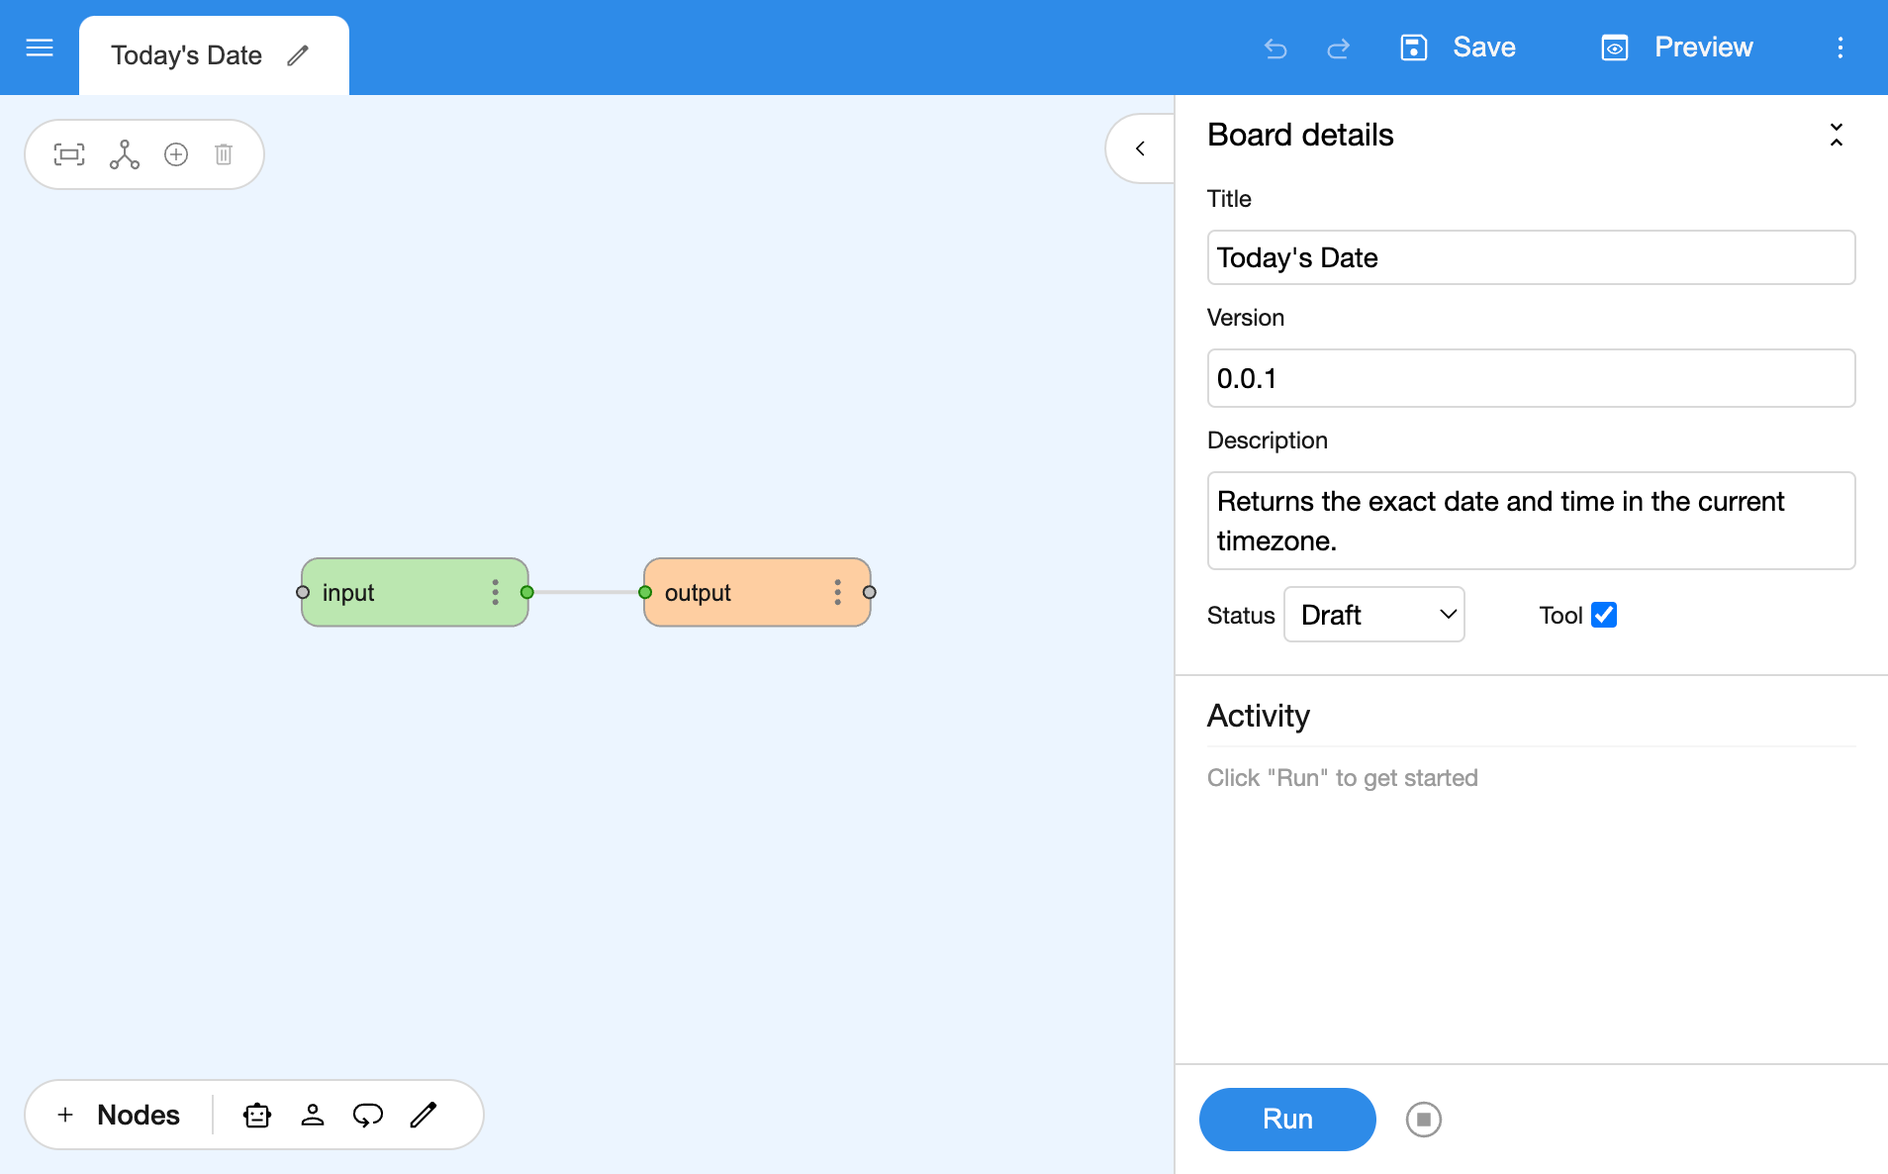
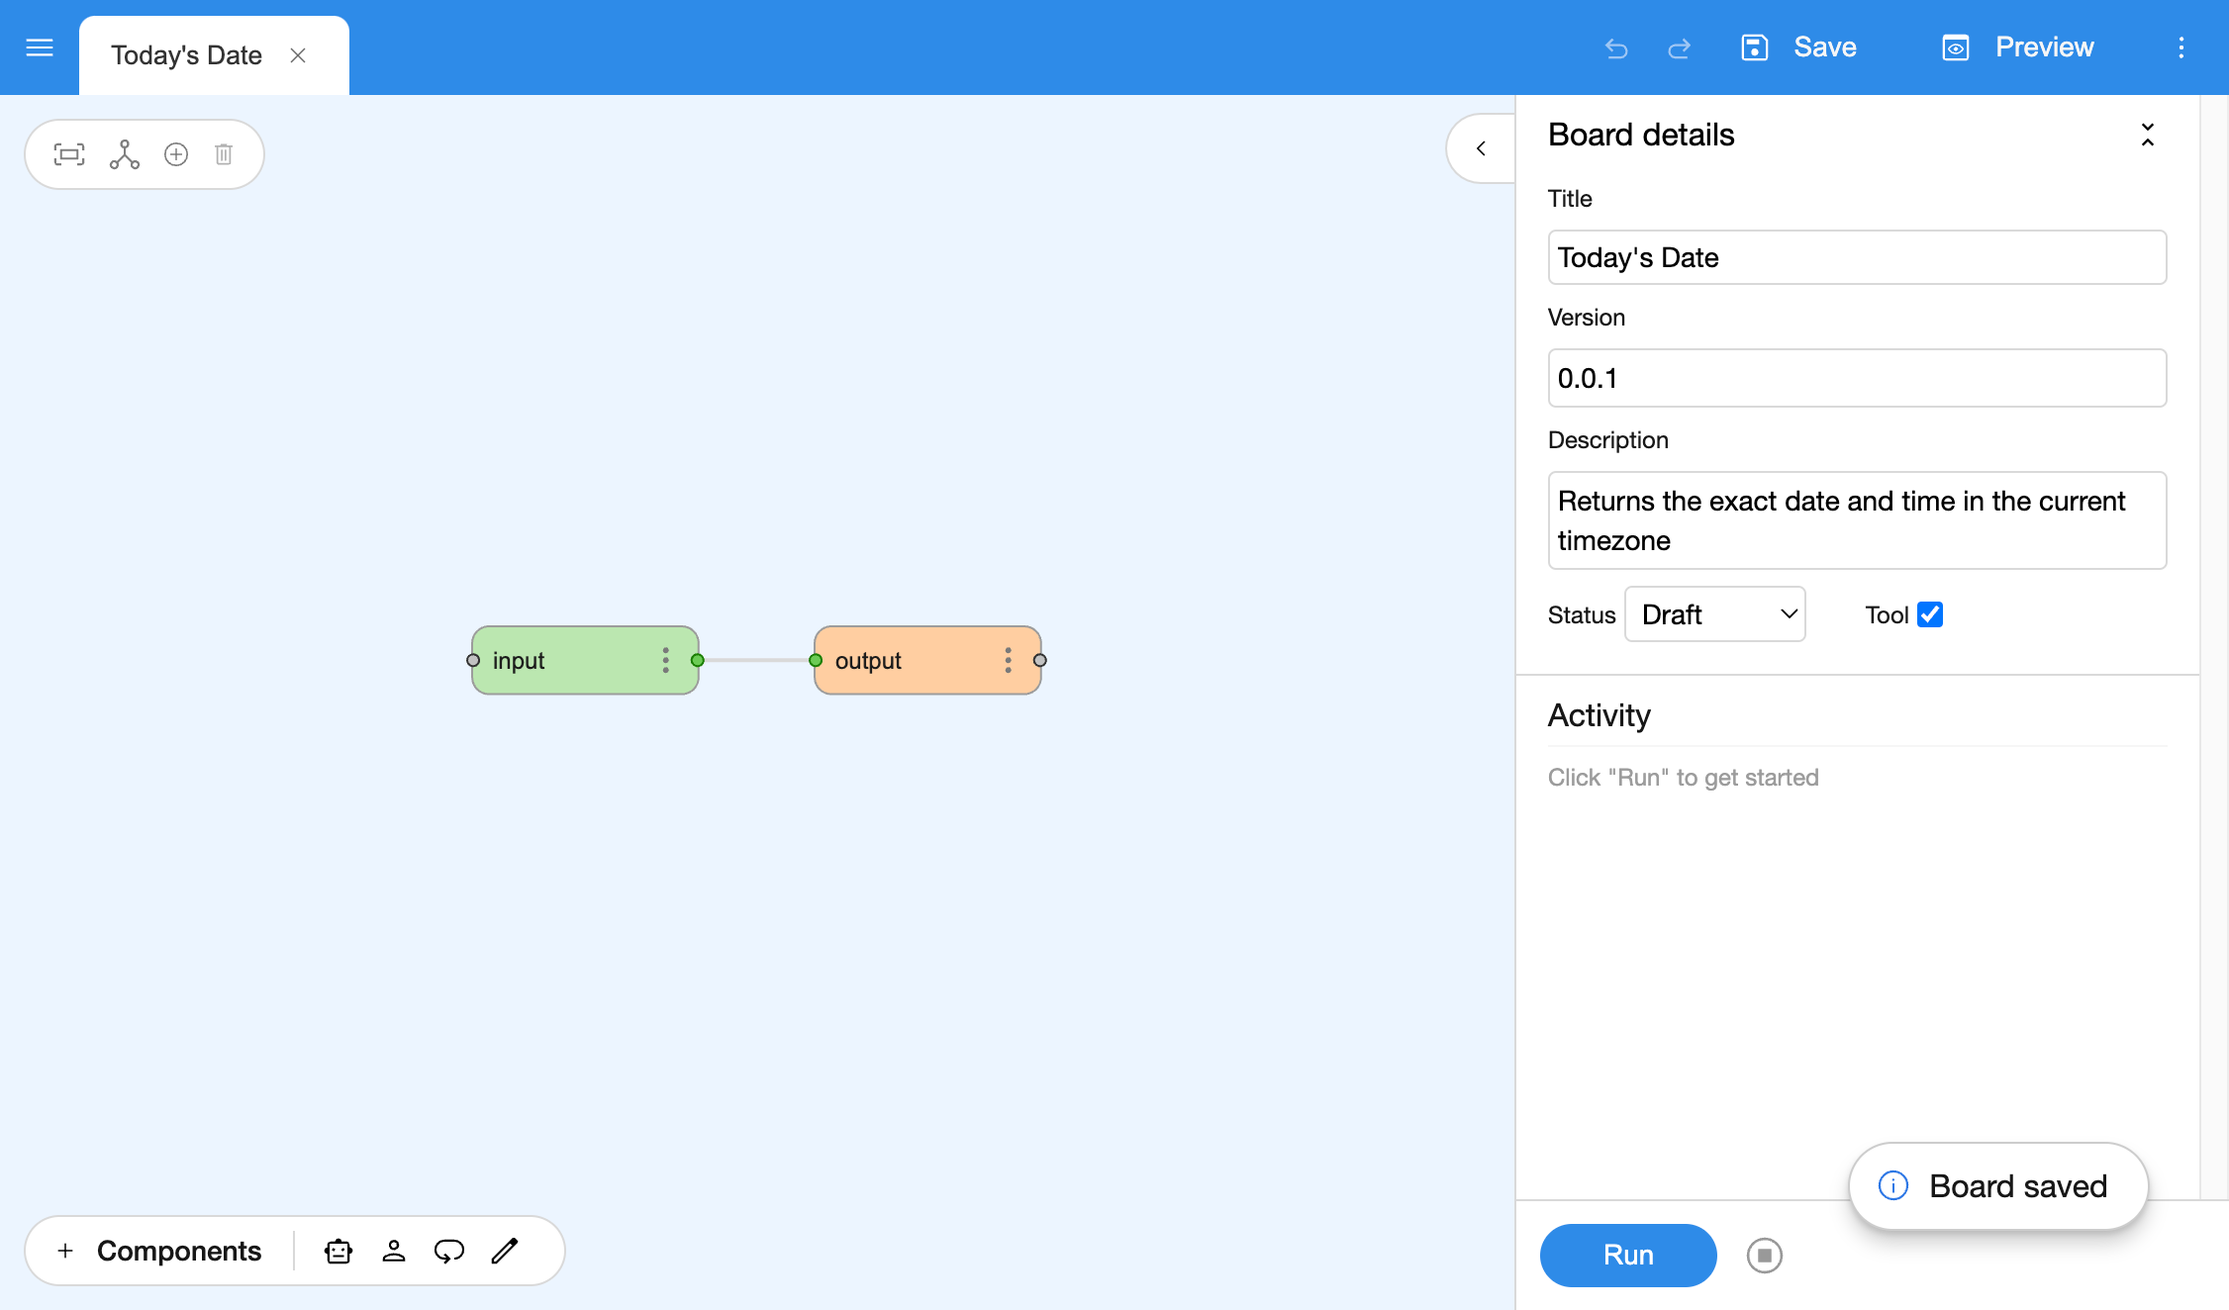
[website] Update docs to use component instead of node

diff --git a/packages/website/src/docs/guides/social-post.md b/packages/website/src/docs/guides/social-post.md
@@ -16,7 +16,7 @@ When you run the finished board for the first time, it will ask you for the Gemi
 > [!NOTE]
 > You might have a reasonable question: "Why does Breadboard ask me for an API key?" One of the key tenets of this project is to allow makers quickly connect to various interesting models and other APIs. To do that, Breadboard has a pretty robust system for managing _secrets_: valuable pieces of data help you connect to them. To balance convenience with flexibility, Breadboard Visual Editor stores these keys in your local browser store.
 
-This board uses the Agent Kit, a collection of nodes designed to help build asynchronous, semi-autonomous agents. You can read more about it in the [Agent Kit Reference](/breadboard/docs/kits/agents/). Additionally, we'll use the built-in "input" and "output" nodes. These are described in the [Built-in Kit Reference](/breadboard/docs/reference/kits/built-in/).
+This board uses the Agent Kit, a collection of components designed to help build asynchronous, semi-autonomous agents. You can read more about it in the [Agent Kit Reference](/breadboard/docs/kits/agents/). Additionally, we'll use the built-in "input" and "output" components. These are described in the [Built-in Kit Reference](/breadboard/docs/reference/kits/built-in/).
 
 To build this board, we will use the Breadboard Visual Editor, which is a tool for rapid prototyping AI systems. You can learn more about about all the different features and capabilities of Breadboard Visual Editor in the [Visual Editor Reference](/breadboard/docs/reference/visual-editor/).
 
@@ -29,31 +29,31 @@ The finished board is below so feel free to use it to work backwards or just cre
 
 Let's get started!
 
-## Step 1: Create a Blank board and modify the input node
+## Step 1: Create a Blank board and modify the input component
 
 First, we'll create a [blank board](/breadboard/docs/reference/visual-editor/#creating-a-new-board). Let's name it something like `my-social-post.bgl.json` and give it a proper title and description, like "My Social Post" and "An agent that creates social posts for small businesses".
 
 {{ "/breadboard/static/boards/social-post/create-blank-board.bgl.json" | board }}
 
-Now, before we move on, let's modify the input for this flow so that we can have the user simply type in the business name and location in the very first step. Start by removing the existing edge connecting the `input` and `output` nodes by clicking on the edge to highlight it and then pressing "Delete" (or "Backspace" for non-Mac users).
+Now, before we move on, let's modify the input for this flow so that we can have the user simply type in the business name and location in the very first step. Start by removing the existing edge connecting the `input` and `output` components by clicking on the edge to highlight it and then pressing "Delete" (or "Backspace" for non-Mac users).
 
-Now click on the input node itself. In the right panel at the top you'll see "Node Details". Give it a title like "Get business name and location".
+Now click on the input component itself. In the right panel at the top you'll see "Node Details". Give it a title like "Get business name and location".
 
-In this same right panel, change the title field from "Context" to "Business Name". Now, below that port at the bottom, you'll see a button called "Add a port" in gray. Click that button and give the new port a title of "Business location (city and state)". The resulting node should now look like what's shown below.
+In this same right panel, change the title field from "Context" to "Business Name". Now, below that port at the bottom, you'll see a button called "Add a port" in gray. Click that button and give the new port a title of "Business location (city and state)". The resulting component should now look like what's shown below.
 
 ![Breadboard Node Selector](/breadboard/static/images/social-post/new-input-node.png)
 
-Cool! Now we have two ports coming out of the input node, one for business name and one for location. We can pass this information to the next step after our user fills them in. Now let's move on to add the next cluster of nodes and then we'll hook them up to our new input node.
+Cool! Now we have two ports coming out of the input component, one for business name and one for location. We can pass this information to the next step after our user fills them in. Now let's move on to add the next cluster of components and then we'll hook them up to our new input component.
 
 ## Step 2: Add an Interviewer Loop (Looper, Specialist, Human)
 
-As mentioned earlier, we're going to continune this flow with a very short chat asking the user what the goals and topic of the social post are. So we need to add a brief interview process first by creating a conversational loop in our board, i.e. a cycle in which the interviewer asks us a series of questions. There are three nodes needed to create this loop: the Looper, the Specialist, and the Human.
+As mentioned earlier, we're going to continune this flow with a very short chat asking the user what the goals and topic of the social post are. So we need to add a brief interview process first by creating a conversational loop in our board, i.e. a cycle in which the interviewer asks us a series of questions. There are three components needed to create this loop: the Looper, the Specialist, and the Human.
 
 ### 2.1 Add an Interview Planner (Looper)
 
-We start with a special node called [Looper](/breadboard/docs/kits/agents/#looper). Looper has a distinctive "cycle" icon shown in the lower left-hand corner of the visual editor.
+We start with a special component called [Looper](/breadboard/docs/kits/agents/#looper). Looper has a distinctive "cycle" icon shown in the lower left-hand corner of the visual editor.
 
-![Breadboard Node Selector](/breadboard/static/images/agent-kit/node-selector.png)
+![Breadboard Node Selector](/breadboard/static/images/shared/component-selector.png)
 
 Drag a Looper into the board and name it "Interview Planner", as we have in the board below. The purpose of this particular Looper will be to plan and conduct the business interview described above.
 
@@ -61,7 +61,7 @@ Let's connect the input to the Looper. Click and drag from the input's two ports
 
 ![Breadboard Node Selector](/breadboard/static/images/social-post/input-to-looper.png)
 
-Now let's configure the Looper for this conversation. Unlike the Specialist node which we'll see shortly, the Looper has no Persona configuration field. Instead, there's only Task. This is because the Persona of the Looper is pre-defined, honed to create plans based on the tasks we give it. There's also no Tools configuration field because the Looper is focused on planning and management of the plan rather than accessing tools.
+Now let's configure the Looper for this conversation. Unlike the Specialist component which we'll see shortly, the Looper has no Persona configuration field. Instead, there's only Task. This is because the Persona of the Looper is pre-defined, honed to create plans based on the tasks we give it. There's also no Tools configuration field because the Looper is focused on planning and management of the plan rather than accessing tools.
 
 For our Interview Planner's Task, it's best to give it something very straighforward and limited. We'll specify the actual task in the next step when we create the Interviewer:
 
@@ -81,11 +81,11 @@ Clicking on the Interview Planner Node, this prompt goes into the Task field.
 
 Now that we have a Interview Planner to come up with an interview plan, we will add the Interviewer to the board and get to the details of what we want the conversation to actually entail. The Interviewer will be responsible for formulating the questions for the interview and reacting to user feedback.
 
-This is a job for a [Specialist](../#specialist). The easiest way to add this node is by grabbing the little robot icon on the bottom left corner and dragging it onto the board. You can name it "Interviewer".
+This is a job for a [Specialist](../#specialist). The easiest way to add this component is by grabbing the little robot icon on the bottom left corner and dragging it onto the board. You can name it "Interviewer".
 
-![Breadboard Node Selector](/breadboard/static/images/agent-kit/node-selector.png)
+![Breadboard Node Selector](/breadboard/static/images/shared/component-selector.png)
 
-Notice that the Looper has two output ports. The "Context Out" port sends the conversation context when the Looper completed all of the steps of its plan. Go ahead and connect the Looper's "Context Out" port to the "out" port of the output node. Connect the Interview Planner's (Looper) "Context Out" port to the input of the Interviewer's (Specialist) "Context" port.
+Notice that the Looper has two output ports. The "Context Out" port sends the conversation context when the Looper completed all of the steps of its plan. Go ahead and connect the Looper's "Context Out" port to the "out" port of the output component. Connect the Interview Planner's (Looper) "Context Out" port to the input of the Interviewer's (Specialist) "Context" port.
 
 ![Breadboard Node Selector](/breadboard/static/images/social-post/looper-specialist-only.png)
 
@@ -94,7 +94,7 @@ Now we need to educate our Specialist and give it purpose.
 > [!NOTE]
 > With Visual Breadboard, it's super-easy to create and connect Specialists. We wanted to make sure that you can focus on the most interesting -- and challenging! -- part: teaching Specialists to do their work well.
 
-We'll start with a name. Click on the node representing the Specialist and in the left (or bottom, if your Breadboard editor window portrait-shaped) panel, click on "Node Details". Then Type in "Interviewer" as the node's title. You will also see that the title changes in the visual editor as well (seen in the screenshot above).
+We'll start with a name. Click on the component representing the Specialist and in the left (or bottom, if your Breadboard editor window portrait-shaped) panel, click on "Node Details". Then Type in "Interviewer" as the component's title. You will also see that the title changes in the visual editor as well (seen in the screenshot above).
 
 Moving on to the Persona, let's type in something like this:
 
@@ -114,17 +114,17 @@ about and its main goal. You only need to elicit ONE answer.
 Do so in a friendly and casual manner.
 ```
 
-Here's how it'll look in the right panel when you click on this node:
+Here's how it'll look in the right panel when you click on this component:
 
 ![Breadboard Node Selector](/breadboard/static/images/social-post/config-interviewer.png)
 
 ### 2.3 Add an Interviewee (Human)
 
-The last node needed for the interview phase of the board is the Human.
+The last component needed for the interview phase of the board is the Human.
 
-The Human node serves as a way to yield control back to the user of the board. When Breadboard encounters it, it pauses execution, shows intermediate results to the user, and asks the user to react to them. This is exactly what we need in our interview: to show the question and wait for the user to answer it.
+The Human component serves as a way to yield control back to the user of the board. When Breadboard encounters it, it pauses execution, shows intermediate results to the user, and asks the user to react to them. This is exactly what we need in our interview: to show the question and wait for the user to answer it.
 
-We'll name this node "Interviewee" and wire the "Context out" port of the Interviewer to its "Context in" port, and then close the loop by wiring Interviewee's "Context out" back into Interview Planner's "Context in".
+We'll name this component "Interviewee" and wire the "Context out" port of the Interviewer to its "Context in" port, and then close the loop by wiring Interviewee's "Context out" back into Interview Planner's "Context in".
 
 Here is the result so far in a working board:
 
@@ -141,7 +141,7 @@ Let's take the results of what's been collected so far and pass them on to the C
 
 At this point the system has gathered the business name and location as well as a general idea of what the user wants the post to be about. Now we can create the next Specialist, which we'll name "Caption Creator", who can write the perefect text for our social media caption.
 
-As before, drag the robot icon from the lower left-hand corner onto the canvas, then click on the new node and name it "Caption Creator". Just like the Interviewer, the Caption Creator Specialist needs a persona and a task. So we can click on the node and fill them in as below:
+As before, drag the robot icon from the lower left-hand corner onto the canvas, then click on the new component and name it "Caption Creator". Just like the Interviewer, the Caption Creator Specialist needs a persona and a task. So we can click on the component and fill them in as below:
 
 Persona:
 
@@ -164,7 +164,7 @@ Here's how it'll look in the right panel:
 
 ![Breadboard Node Selector](/breadboard/static/images/social-post/caption-creator-config.png)
 
-We're ready to hook up the final pieces! Delete the wire from the Looper's "Context Out" port to the output node, and attach a new wire from this same port to the "Context" of the new Caption Creator node. Now connect the "Context Out" port from the Caption Creator" to the "out" port of the output node.
+We're ready to hook up the final pieces! Delete the wire from the Looper's "Context Out" port to the output component, and attach a new wire from this same port to the "Context" of the new Caption Creator component. Now connect the "Context Out" port from the Caption Creator" to the "out" port of the output component.
 
 And you've done it! Below is the complete board that takes a business name and location, asks the user about the social media post basics, and outputs a caption to match.
 
@@ -174,9 +174,9 @@ And you've done it! Below is the complete board that takes a business name and l
 
 Congrats! We've just built a Social Media Post Creator. As with the other tutorials on Agent Kit, here's what we've learned:
 
-- How to place nodes (like Specialist, Looper, Comments, etc.) on the board
+- How to place components (like Specialist, Looper, Comments, etc.) on the board
 
-- How to add multiple fields (ports) to an input node
+- How to add multiple fields (ports) to an input component
 
 - How to give Specialist its purpose
 

diff --git a/packages/website/src/docs/getting-started.md b/packages/website/src/docs/getting-started.md
@@ -47,7 +47,7 @@ Click **Save**, and we should be greeted with a board view that has two nodes: a
 
 ## Step 2. Running a board
 
-Let's click **Run** in the bottom right corner, which will start the board running. Immediately we will see that the input node is highlighted in the board view, and in the **Activity Log** on the right an input area will appear. Let's put the following into the box:
+Let's click **Run** in the bottom right corner, which will start the board running. Immediately we will see that the input component is highlighted in the board view, and in the **Activity Log** on the right an input area will appear. Let's put the following into the box:
 
 ```prompt
 Hello, Specialist!
@@ -66,13 +66,13 @@ Let's do something a little more fun. Let's add in a **Specialist** component.
 
 To get a Specialist, go to the selector in the bottom left corner and drag the component that has a little robot icon 🤖 onto the board view:
 
-![The quick component selector](/breadboard/static/images/getting-started-with-the-visual-editor/5-node-selector.png)
+![The quick component selector](/breadboard/static/images/shared/component-selector.png)
 
 When we do this a new component will appear. It will be called something like **specialist-1234abcd**.
 
 ![The board with our Specialist added](/breadboard/static/images/getting-started-with-the-visual-editor/6-graph.png)
 
-With the Specialist selected we should see some more information on the right hand side of the UI. Let's expand the **Node details** pane and enter a name for it - **Greeter** - and let's give it a **Persona** by adding a text part and entering the following:
+With the Specialist selected we should see some more information on the right hand side of the UI. Let's expand the **Component details** pane and enter a name for it - **Greeter** - and let's give it a **Persona** by adding a text part and entering the following:
 
 ```prompt
 You are a cheery greeter who always responds with a fun fact.
@@ -96,4 +96,4 @@ Enter a nice greeting in the box and hit **Continue**. Your Specialist should re
 
 Congratulations! We just made our first board with the Visual Editor!
 
-What's next? Have you ever wanted to create your own [Virtual Librarian](./guides/librarian/) that can help you pick your next book? If so, then let us show you how to make one!
+What's next? Have you ever wanted to create your own [Virtual Librarian](../guides/librarian/) that can help you pick your next book? If so, then let us show you how to make one!

diff --git a/packages/website/src/docs/guides/librarian.md b/packages/website/src/docs/guides/librarian.md
@@ -32,7 +32,7 @@ First, we'll create a [blank board](/breadboard/docs/reference/visual-editor/#cr
 
 As our next step, let's add a Summarizer [Specialist](../#specialist) to this board. The easiest way to do this is by grabbing the little robot icon on the bottom left corner and dragging it onto the board.
 
-![Breadboard Node Selector](/breadboard/static/images/agent-kit/node-selector.png)
+![Breadboard Node Selector](/breadboard/static/images/shared/component-selector.png)
 
 Now, let's remove the existing edge connecting the `input` and `output` nodes. We can do this by clicking on the edge to highlight it and then pressing "Delete" (or "Backspace" for non-Mac users).
 

diff --git a/packages/website/src/docs/guides/first-tool.md b/packages/website/src/docs/guides/first-tool.md
@@ -41,7 +41,7 @@ Now we've created a board, we can use the Board Details pane to set the descript
 
 Let's add a Specialist. We can drag one of these from the quick selection bar in the bottom corner of the Visual Editor. It's the one with the little robot icon! 🤖
 
-![The quick selection bar in the Visual Editor](/breadboard/static/images/first-tool/2-quick-selection.png)
+![The quick selection bar in the Visual Editor](/breadboard/static/images/shared/component-selector.png)
 
 Now we can wire the Poet in. Delete the wire that connects the input to the output, and then drag a wire from input to the Poet, and Poet to the output.
 
